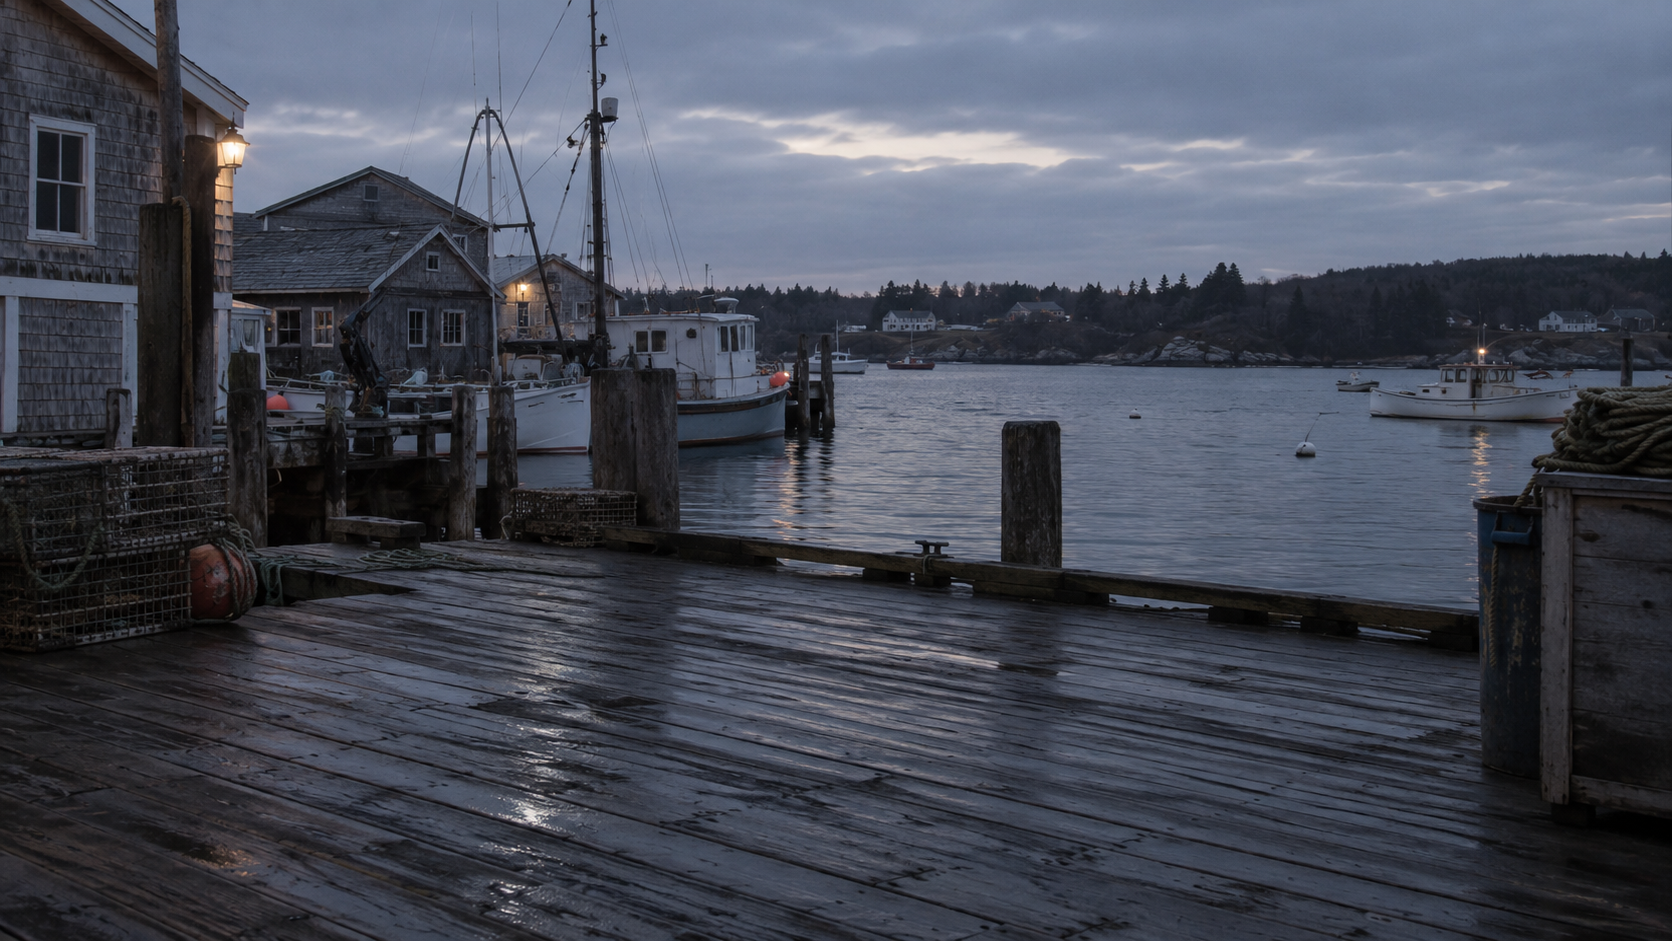
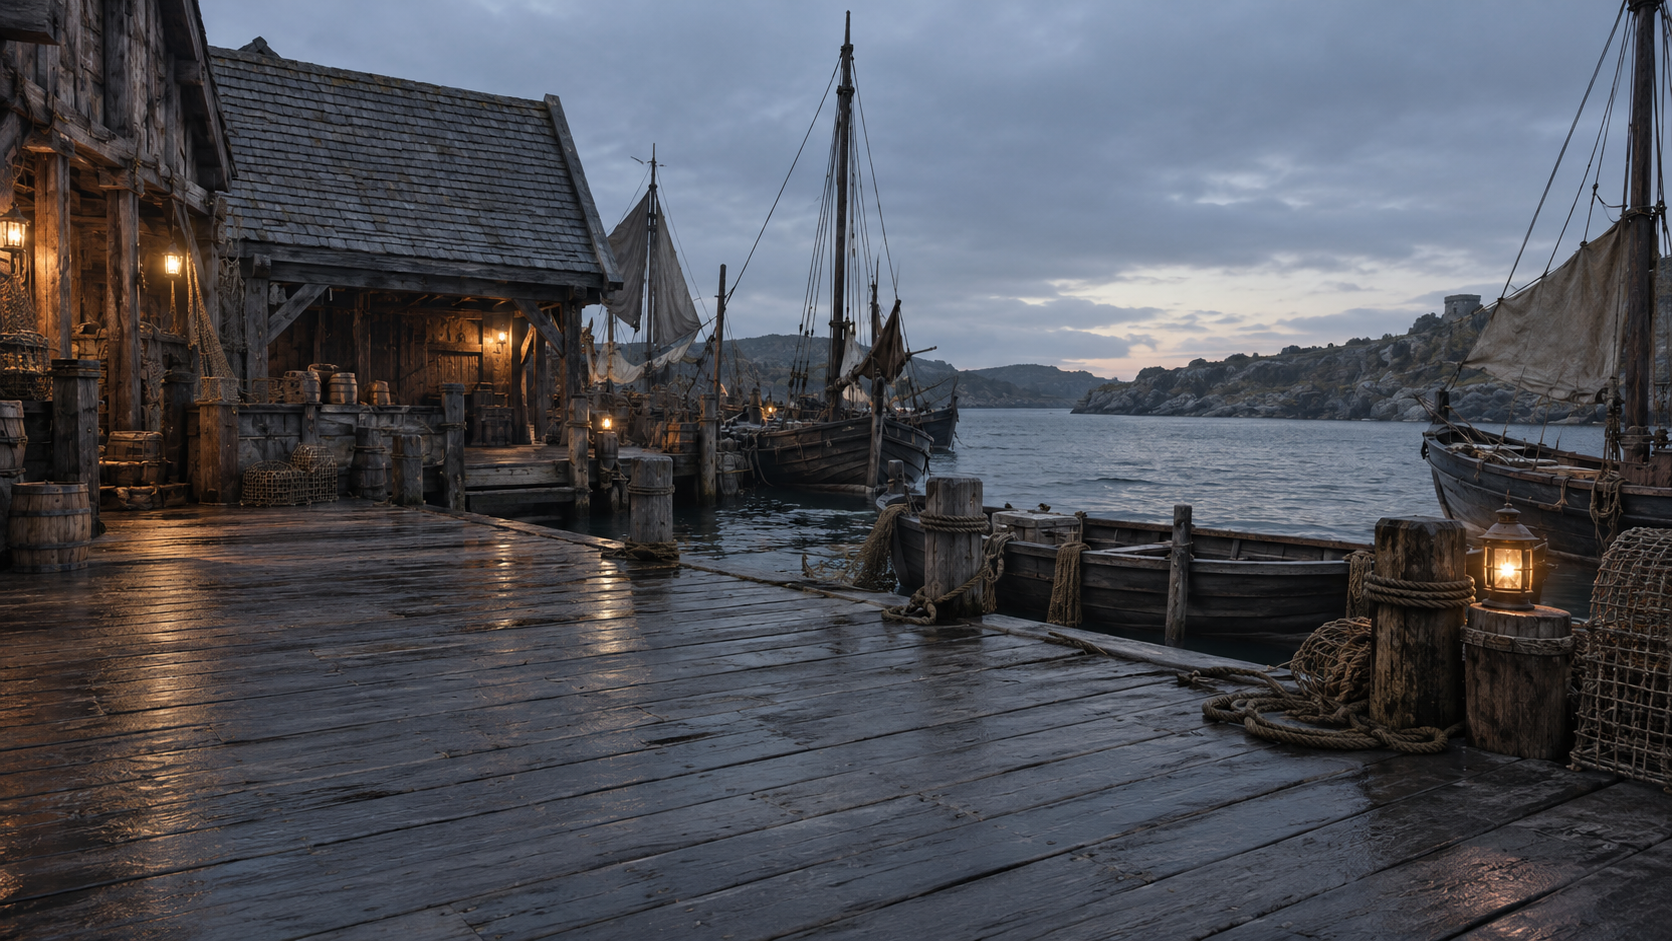
Use medieval photographic sprites and harbor

diff --git a/crates/df-tools/src/gameplay/imagery/prompt.rs b/crates/df-tools/src/gameplay/imagery/prompt.rs
@@ -20,14 +20,11 @@ use super::super::{
 
 const MAXIMUM_FACT_CHARACTERS: usize = 80;
 
-pub(in crate::gameplay) const FILM_LOOK: &str = "Live-action fantasy film; real camera, one consistent \
-    prime lens per scene; natural depth of field. Practical light sources visible in scene. Skin \
-    pores, worn woven fabric and seams. One named film grade for each place and time of day \
-    (Lantern Night, Overcast Day, Hearth Amber): cool shadows, warm practical highlights, fine \
-    film grain. Photograph real adult actors in practical sewn costumes on a built set or real \
-    location; physically imperfect skin, wood, metal, water and props; restrained contrast and \
-    natural atmospheric light. Photographic only; no painting, illustration, concept art, matte \
-    painting, CGI, 3D render, synthetic game art or plastic surfaces.";
+pub(in crate::gameplay) const FILM_LOOK: &str = "Live-action fantasy film photographed on location with real adult actors, practical sewn costumes \
+    and props, real camera and prime lens, natural depth of field, skin pores, worn materials, \
+    natural atmospheric light, restrained grade and fine 35mm grain. Photographic only; no \
+    painting, illustration, concept art, matte painting, CGI, 3D render, synthetic game art or \
+    plastic surfaces.";
 const NO_TEXT: &str = "No text, letters, numbers, logos or watermarks.";
 const NO_REAL_PEOPLE: &str = "No real people, celebrities or likenesses of real persons.";
 const ADULTS_ONLY: &str = "Every person shown is an adult.";

diff --git a/crates/df-tools/src/gameplay/living_scenes.rs b/crates/df-tools/src/gameplay/living_scenes.rs
@@ -49,7 +49,7 @@ use super::shot::scene_graph::{ActorInput, SceneGraph, SceneGraphInput};
 /// The authored cut-out of the party's hero at this position; the health variants are made from
 /// it.
 fn hero_art(index: usize) -> String {
-    format!("assets/ui/generated/sprite-hero-{}", index + 1)
+    format!("assets/ui/generated/sprite-hero-{}-photo", index + 1)
 }
 
 /// The cut-out the battlefield dresses the hero at this party position in (the dwarf fighter, the
@@ -58,7 +58,7 @@ fn hero_art(index: usize) -> String {
 /// shows.
 fn battle_hero_art(index: usize) -> String {
     let art = [1, 3, 2][index % 3];
-    format!("assets/ui/generated/sprite-hero-{art}")
+    format!("assets/ui/generated/sprite-hero-{art}-photo")
 }
 
 /// What a hero's health variants are made from on each screen, and which are cached.

diff --git a/crates/df-tools/src/gameplay/startup_configuration.rs b/crates/df-tools/src/gameplay/startup_configuration.rs
@@ -604,6 +604,9 @@ const GENERATED_STEMS: &[&str] = &[
     "figure-hero-3-photo",
     "sprite-courier-photo",
     "sprite-bandit-photo",
+    "sprite-hero-1-photo",
+    "sprite-hero-2-photo",
+    "sprite-hero-3-photo",
     "icon-attack",
     "icon-second-wind",
     "icon-end-turn",
@@ -642,6 +645,9 @@ const BATTLEFIELD_STEMS: &[&str] = &[
     "figure-hero-3-photo",
     "sprite-courier-photo",
     "sprite-bandit-photo",
+    "sprite-hero-1-photo",
+    "sprite-hero-2-photo",
+    "sprite-hero-3-photo",
     "prop-crates",
     "prop-barrels",
     "prop-rope-nets",
